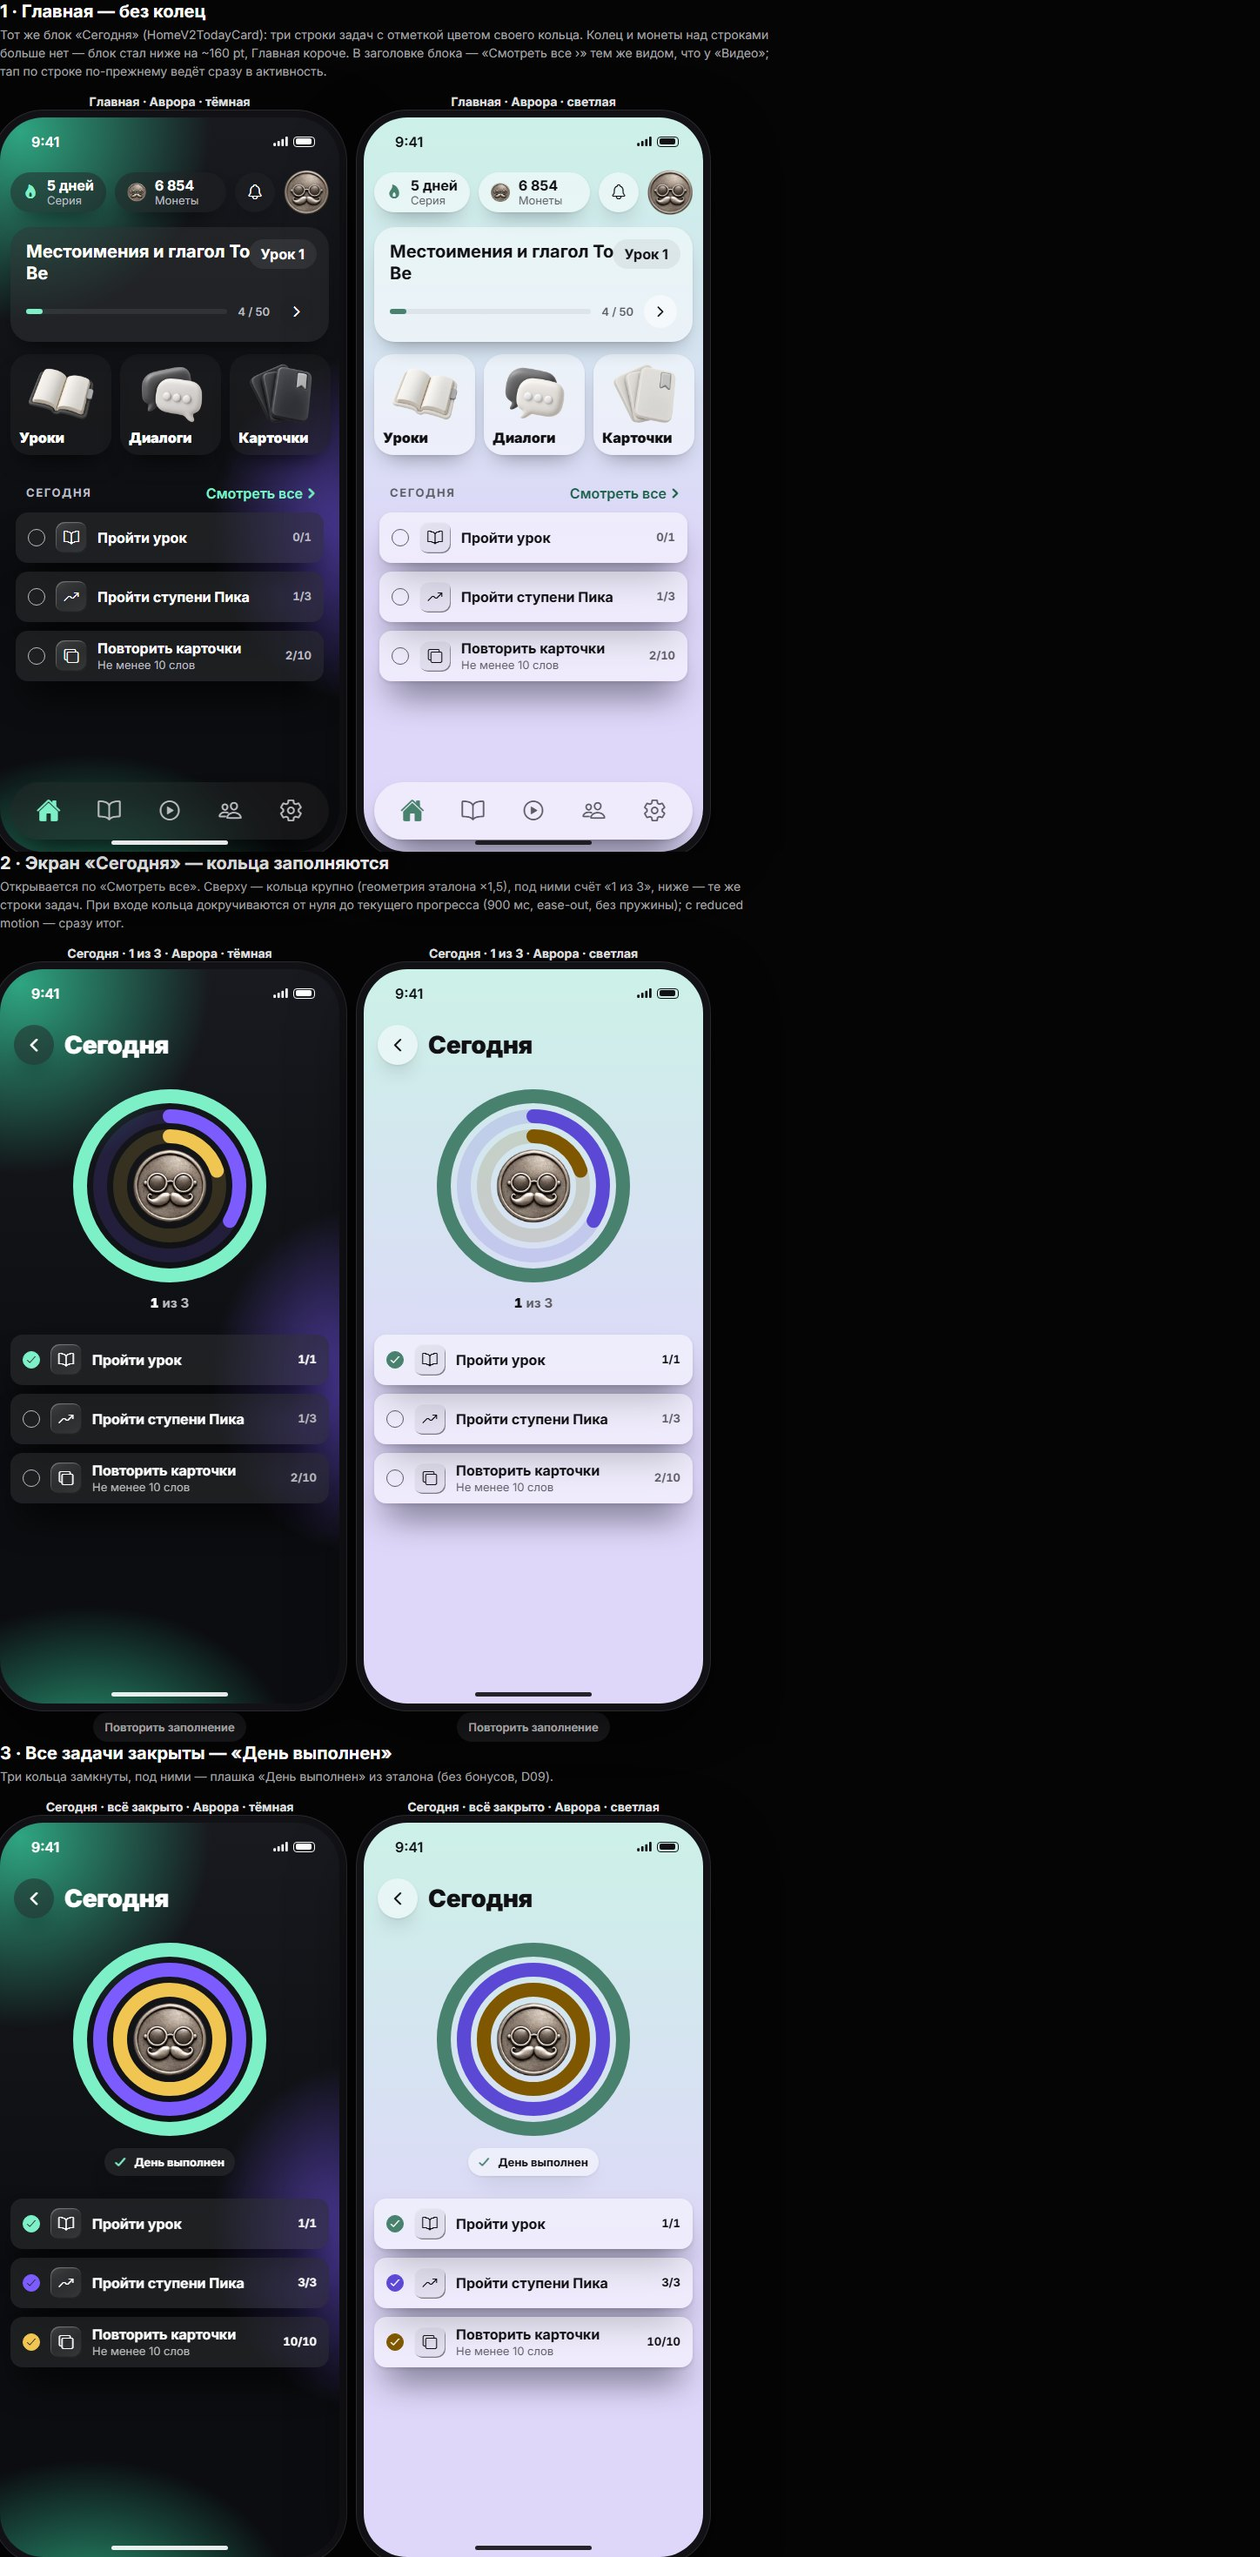
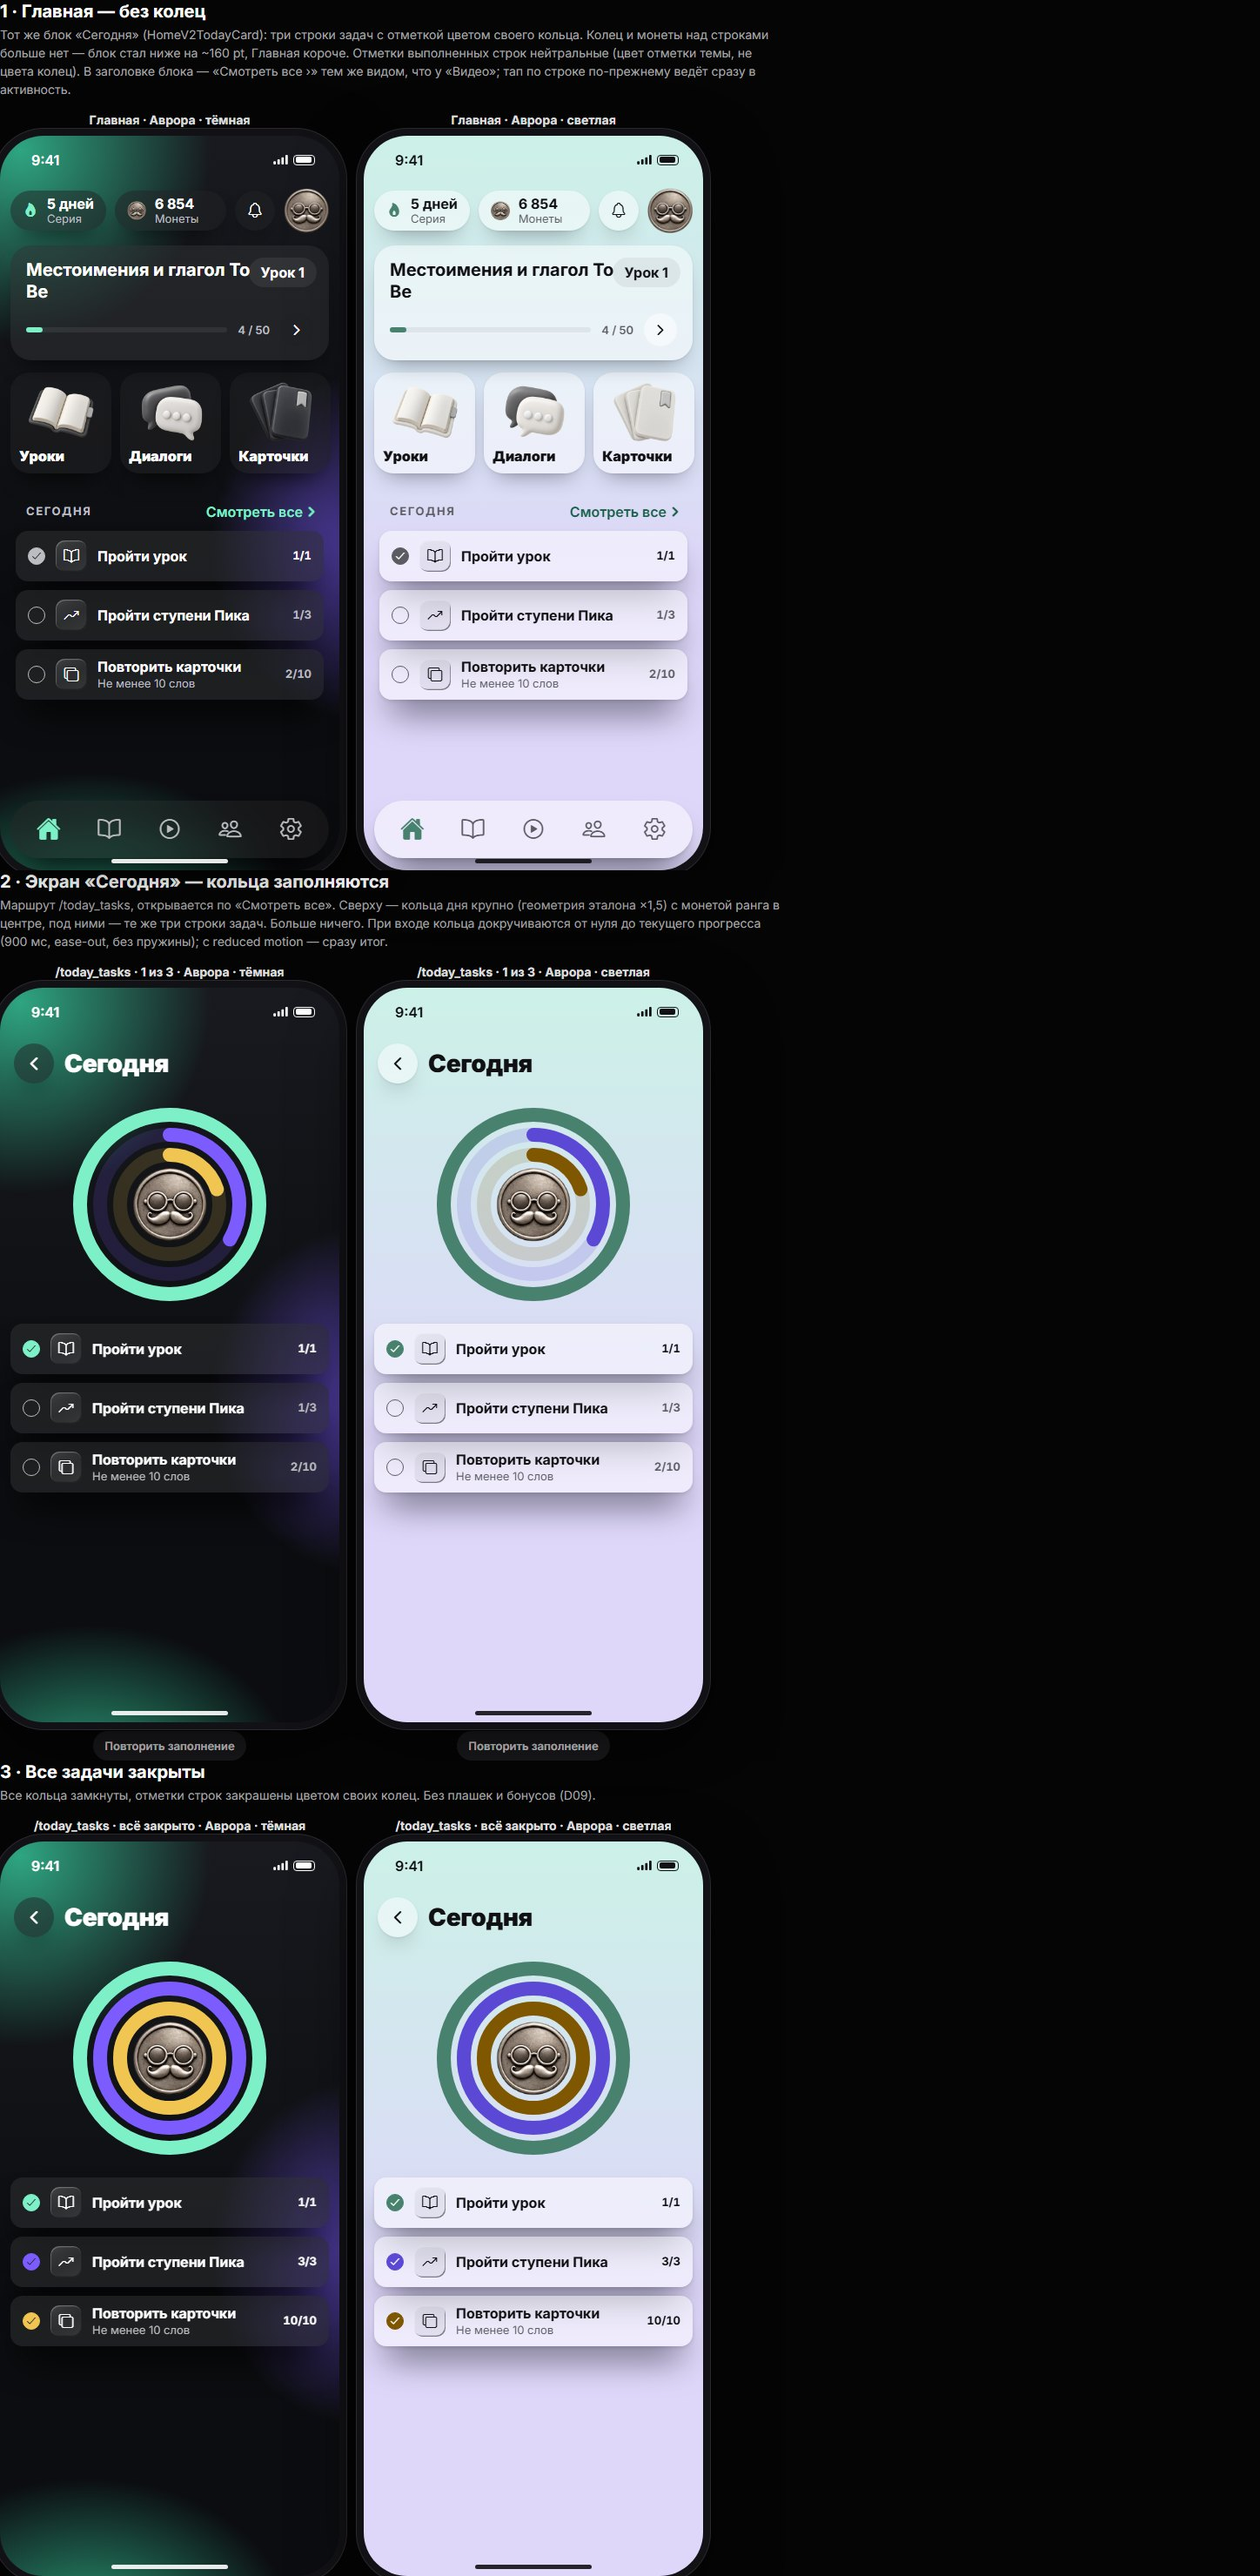
docs(design): кольца «Сегодня» — нейтральные отметки на Главной, /today_tasks только кольца и строки (координатор 17.10)

diff --git a/docs/design/v2-app/today-rings-screen.html b/docs/design/v2-app/today-rings-screen.html
@@ -89,11 +89,11 @@
   <h1>Кольца «Сегодня» → экран заданий дня</h1>
   <p class="lead">Владелец 17.10: на Главной колец нет, блок «Сегодня» остаётся строками; по «Смотреть все» открывается экран заданий дня, и кольца — там. Визуал 1:1 из одобренного эталона «Моменты v3» (Кольца и огонь): три кольца = три задачи дня, монета ранга в центре, цвета — токены темы. «Повторить» на экране «Сегодня» — заново проигрывает заполнение колец.</p>
 
-  <section class="labsec" id="home"><h2>1 · Главная — без колец</h2><p>Тот же блок «Сегодня» (HomeV2TodayCard): три строки задач с отметкой цветом своего кольца. Колец и монеты над строками больше нет — блок стал ниже на ~160 pt, Главная короче. В заголовке блока — «Смотреть все ›» тем же видом, что у «Видео»; тап по строке по-прежнему ведёт сразу в активность.</p><div class="lrow" id="rowHome"></div></section>
+  <section class="labsec" id="home"><h2>1 · Главная — без колец</h2><p>Тот же блок «Сегодня» (HomeV2TodayCard): три строки задач с отметкой цветом своего кольца. Колец и монеты над строками больше нет — блок стал ниже на ~160 pt, Главная короче. Отметки выполненных строк нейтральные (цвет отметки темы, не цвета колец). В заголовке блока — «Смотреть все ›» тем же видом, что у «Видео»; тап по строке по-прежнему ведёт сразу в активность.</p><div class="lrow" id="rowHome"></div></section>
 
-  <section class="labsec" id="screen"><h2>2 · Экран «Сегодня» — кольца заполняются</h2><p>Открывается по «Смотреть все». Сверху — кольца крупно (геометрия эталона ×1,5), под ними счёт «1 из 3», ниже — те же строки задач. При входе кольца докручиваются от нуля до текущего прогресса (900 мс, ease-out, без пружины); с reduced motion — сразу итог.</p><div class="lrow" id="rowScreen"></div></section>
+  <section class="labsec" id="screen"><h2>2 · Экран «Сегодня» — кольца заполняются</h2><p>Маршрут /today_tasks, открывается по «Смотреть все». Сверху — кольца дня крупно (геометрия эталона ×1,5) с монетой ранга в центре, под ними — те же три строки задач. Больше ничего. При входе кольца докручиваются от нуля до текущего прогресса (900 мс, ease-out, без пружины); с reduced motion — сразу итог.</p><div class="lrow" id="rowScreen"></div></section>
 
-  <section class="labsec" id="done"><h2>3 · Все задачи закрыты — «День выполнен»</h2><p>Три кольца замкнуты, под ними — плашка «День выполнен» из эталона (без бонусов, D09).</p><div class="lrow" id="rowDone"></div></section>
+  <section class="labsec" id="done"><h2>3 · Все задачи закрыты</h2><p>Все кольца замкнуты, отметки строк закрашены цветом своих колец. Без плашек и бонусов (D09).</p><div class="lrow" id="rowDone"></div></section>
 </div>
 <script>
 const IO = { book: '&#xf1a6;', copy: '&#xf290;', trend: '&#xf5fc;', check: '&#xf21d;', flame: '&#xf313;', bell: '&#xf47f;', back: '&#xf1e6;' };
@@ -108,22 +108,22 @@ const RING = ['var(--acc)', 'var(--r2)', 'var(--r3)'];
 const sb = () => `<div class="sb"><span>9:41</span><span style="display:flex;gap:6px;align-items:center"><svg width="17" height="11" viewBox="0 0 18 12" fill="currentColor"><rect x="0" y="8" width="3" height="4" rx="1"/><rect x="5" y="5.5" width="3" height="6.5" rx="1"/><rect x="10" y="3" width="3" height="9" rx="1"/><rect x="15" y="0" width="3" height="12" rx="1"/></svg><span style="width:25px;height:12px;border-radius:4px;border:1.5px solid currentColor;position:relative"><span style="position:absolute;inset:1.5px;right:3px;background:currentColor;border-radius:2px"></span></span></span></div>`;
 const coin = (r, s) => `<img class="coin" src="assets/coin_rank_${String(r).padStart(2, '0')}.webp" width="${s}" height="${s}" alt="">`;
 const phone = (theme, inner) => `<div class="ph2 ${theme}">${sb()}<div class="in">${inner}</div><div class="hi"></div></div>`;
-const rows = (prog) => `<div class="list">${TASKS.map((t, i) => `<div class="trow ${prog[i] >= t.target ? 'done' : ''}" style="--rc:${RING[i]}"><span class="ck"><span class="io">${IO.check}</span></span><span class="tile"><span class="io">${IO[t.icon]}</span></span><div class="cp"><div class="tt">${t.title}</div>${t.sub ? `<div class="st">${t.sub}</div>` : ''}</div><span class="cn">${Math.min(prog[i], t.target)}/${t.target}</span></div>`).join('')}</div>`;
+const rows = (prog, neutral) => `<div class="list">${TASKS.map((t, i) => `<div class="trow ${prog[i] >= t.target ? 'done' : ''}" style="--rc:${neutral ? 'var(--check)' : RING[i]}"><span class="ck"><span class="io">${IO.check}</span></span><span class="tile"><span class="io">${IO[t.icon]}</span></span><div class="cp"><div class="tt">${t.title}</div>${t.sub ? `<div class="st">${t.sub}</div>` : ''}</div><span class="cn">${Math.min(prog[i], t.target)}/${t.target}</span></div>`).join('')}</div>`;
 
 /* ---------- Главная (как в эталоне v3, блок «Сегодня» без колец) ---------- */
 const head = () => `<div class="hrow"><span class="pl"><span class="io" style="font-size:18px;color:var(--acc)">${IO.flame}</span><div><b>5 дней</b><span>Серия</span></div></span><span class="pl" style="flex:1">${coin(5, 22)}<div><b>6 854</b><span>Монеты</span></div></span><span class="cir"><span class="io" style="font-size:20px">${IO.bell}</span></span><span style="width:52px;height:52px;flex:none">${coin(5, 52)}</span></div>`;
 const lesson = () => `<div style="margin-top:14px;padding:16px 18px;position:relative;border-radius:24px;background:var(--raised);box-shadow:var(--sh)"><div style="font-size:20px;line-height:25px;font-weight:700;padding-right:70px">Местоимения и глагол To Be</div><div style="display:flex;align-items:center;margin-top:12px;gap:12px"><div style="flex:1;height:6px;border-radius:3px;background:var(--ti)"><i style="display:block;width:8%;height:100%;border-radius:3px;background:var(--acc)"></i></div><span style="font-size:13px;font-weight:600;color:var(--sc)">4 / 50</span><span style="width:38px;height:38px;border-radius:50%;display:inline-flex;align-items:center;justify-content:center;background:var(--plate)"><span class="io" style="font-size:18px">${TAB.chevron}</span></span></div><span style="position:absolute;right:14px;top:14px;height:34px;padding:0 14px;border-radius:17px;display:inline-flex;align-items:center;font-size:16px;font-weight:700;background:var(--ti)">Урок 1</span></div>`;
 const tiles = (theme) => `<div style="display:grid;grid-template-columns:repeat(3,1fr);gap:10px;margin-top:14px">${[['lessons', 'Уроки'], ['dialogs', 'Диалоги'], ['cards', 'Карточки']].map(([k, t]) => `<div style="aspect-ratio:1;border-radius:22px;padding:0 10px 10px;display:flex;flex-direction:column;justify-content:space-between;font-size:16px;font-weight:800;background:var(--plate);box-shadow:var(--sh)"><div style="flex:1;display:flex;align-items:center;justify-content:center;padding-top:6px"><img src="assets/v2art/${theme === 'aurora' ? 'dark' : 'light'}/${k}.webp" style="width:84%;max-width:84px;max-height:84px;object-fit:contain" alt=""></div>${t}</div>`).join('')}</div>`;
 const tabbar = () => `<div style="position:absolute;left:12px;right:12px;bottom:14px;height:66px;border-radius:33px;z-index:20;display:flex;align-items:center;padding:0 9px;background:var(--plate);box-shadow:var(--sho);-webkit-backdrop-filter:blur(18px);backdrop-filter:blur(18px)">${['home', 'book', 'play', 'people', 'settings'].map((k, i) => `<span style="flex:1;height:48px;border-radius:18px;display:flex;align-items:center;justify-content:center;color:${i ? 'var(--mu)' : 'var(--acc)'}"><span class="io" style="font-size:28px">${TAB[k]}</span></span>`).join('')}</div>`;
-const todayHome = (prog) => `<div class="today"><div class="kh"><span class="k">Сегодня</span><span class="seeall">Смотреть все<span class="io">${TAB.chevron}</span></span></div>${rows(prog)}</div>`;
+const todayHome = (prog) => `<div class="today"><div class="kh"><span class="k">Сегодня</span><span class="seeall">Смотреть все<span class="io">${TAB.chevron}</span></span></div>${rows(prog, true)}</div>`;
 const home = (theme, prog) => `<div>${head()}${lesson()}${tiles(theme)}${todayHome(prog)}</div>${tabbar()}`;
 
 /* ---------- экран «Сегодня» ---------- */
 const ringsSvg = (vals, from0) => { const s = 222, c = 111, sw = 16, gap = 7; return `<svg viewBox="0 0 ${s} ${s}">${vals.map((v, i) => { const r = c - sw / 2 - i * (sw + gap); const len = 2 * Math.PI * r; return `<circle class="bgr" cx="${c}" cy="${c}" r="${r}" stroke="${RING[i]}" stroke-width="${sw}"/><circle class="rg" data-v="${v}" data-len="${len.toFixed(1)}" cx="${c}" cy="${c}" r="${r}" stroke="${RING[i]}" stroke-width="${sw}" stroke-dasharray="${len.toFixed(1)}" stroke-dashoffset="${(len * (1 - (from0 ? 0 : v))).toFixed(1)}" style="transition-delay:${i * 120}ms"/>`; }).join('')}</svg>`; };
-const screen = (prog, o = {}) => { const done = prog.filter((p, i) => p >= TASKS[i].target).length; const all = done === TASKS.length;
+const screen = (prog, o = {}) => {
   return `<div class="th"><span class="cir"><span class="io" style="transform:rotate(180deg)">${TAB.chevron}</span></span><h3>Сегодня</h3></div>
   <div class="rhero"><div class="rw" data-rw>${ringsSvg(prog.map((p, i) => Math.min(1, p / TASKS[i].target)), o.animate)}${coin(5, 86)}</div>
-  ${all ? `<span class="dayok"><span class="io">${IO.check}</span>День выполнен</span>` : `<span class="sum"><b>${done}</b> из ${TASKS.length}</span>`}</div>${rows(prog)}`; };
+  </div>${rows(prog)}`; };
 
 const THEMES = [['aurora', 'Аврора · тёмная'], ['sage', 'Аврора · светлая']];
 const put = (id, make, label, replay) => { const row = document.getElementById(id); THEMES.forEach(([th, name]) => { const c = document.createElement('div'); c.className = 'colx'; c.innerHTML = `<div class="lbl">${label} · ${name}</div>${phone(th, make(th))}${replay ? '<button class="btn" data-replay>Повторить заполнение</button>' : ''}`; row.appendChild(c); }); };
@@ -131,9 +131,9 @@ const put = (id, make, label, replay) => { const row = document.getElementById(i
 const fill = (root) => root.querySelectorAll('.rg').forEach((r) => { const len = +r.dataset.len; r.style.strokeDashoffset = (len * (1 - +r.dataset.v)).toFixed(1); });
 const reset = (root) => root.querySelectorAll('.rg').forEach((r) => { r.style.transition = 'none'; r.style.strokeDashoffset = r.dataset.len; void r.getBoundingClientRect(); r.style.transition = ''; });
 
-put('rowHome', (th) => home(th, [0, 1, 2]), 'Главная');
-put('rowScreen', () => screen([1, 1, 2], { animate: true }), 'Сегодня · 1 из 3', true);
-put('rowDone', () => screen([1, 3, 10]), 'Сегодня · всё закрыто');
+put('rowHome', (th) => home(th, [1, 1, 2]), 'Главная');
+put('rowScreen', () => screen([1, 1, 2], { animate: true }), '/today_tasks · 1 из 3', true);
+put('rowDone', () => screen([1, 3, 10]), '/today_tasks · всё закрыто');
 requestAnimationFrame(() => requestAnimationFrame(() => fill(document.getElementById('rowScreen'))));
 document.addEventListener('click', (e) => { const b = e.target.closest('[data-replay]'); if (!b) return; const col = b.closest('.colx'); reset(col); requestAnimationFrame(() => fill(col)); });
 </script>
